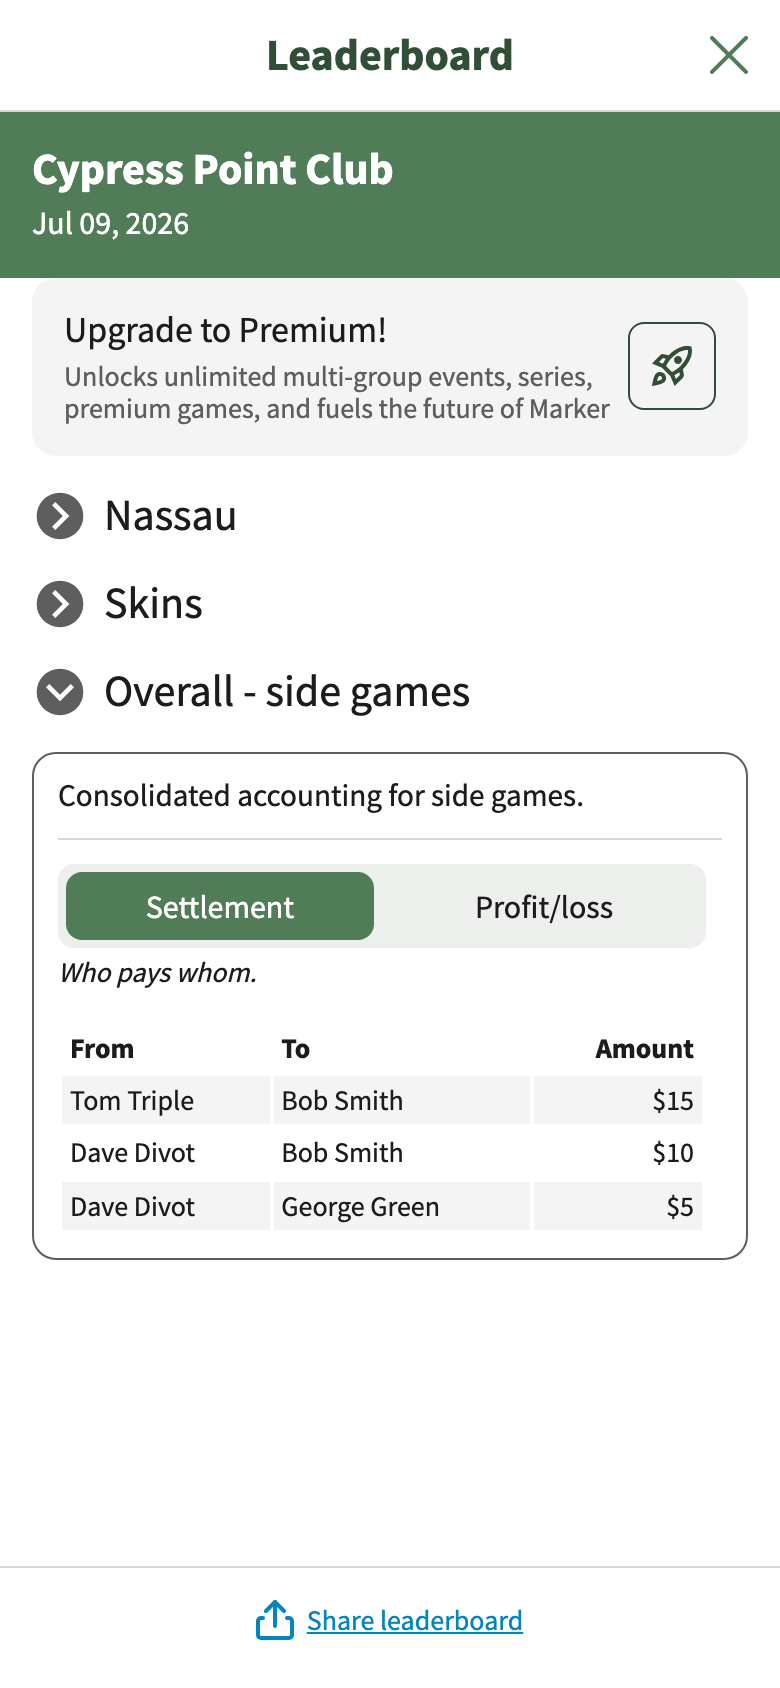
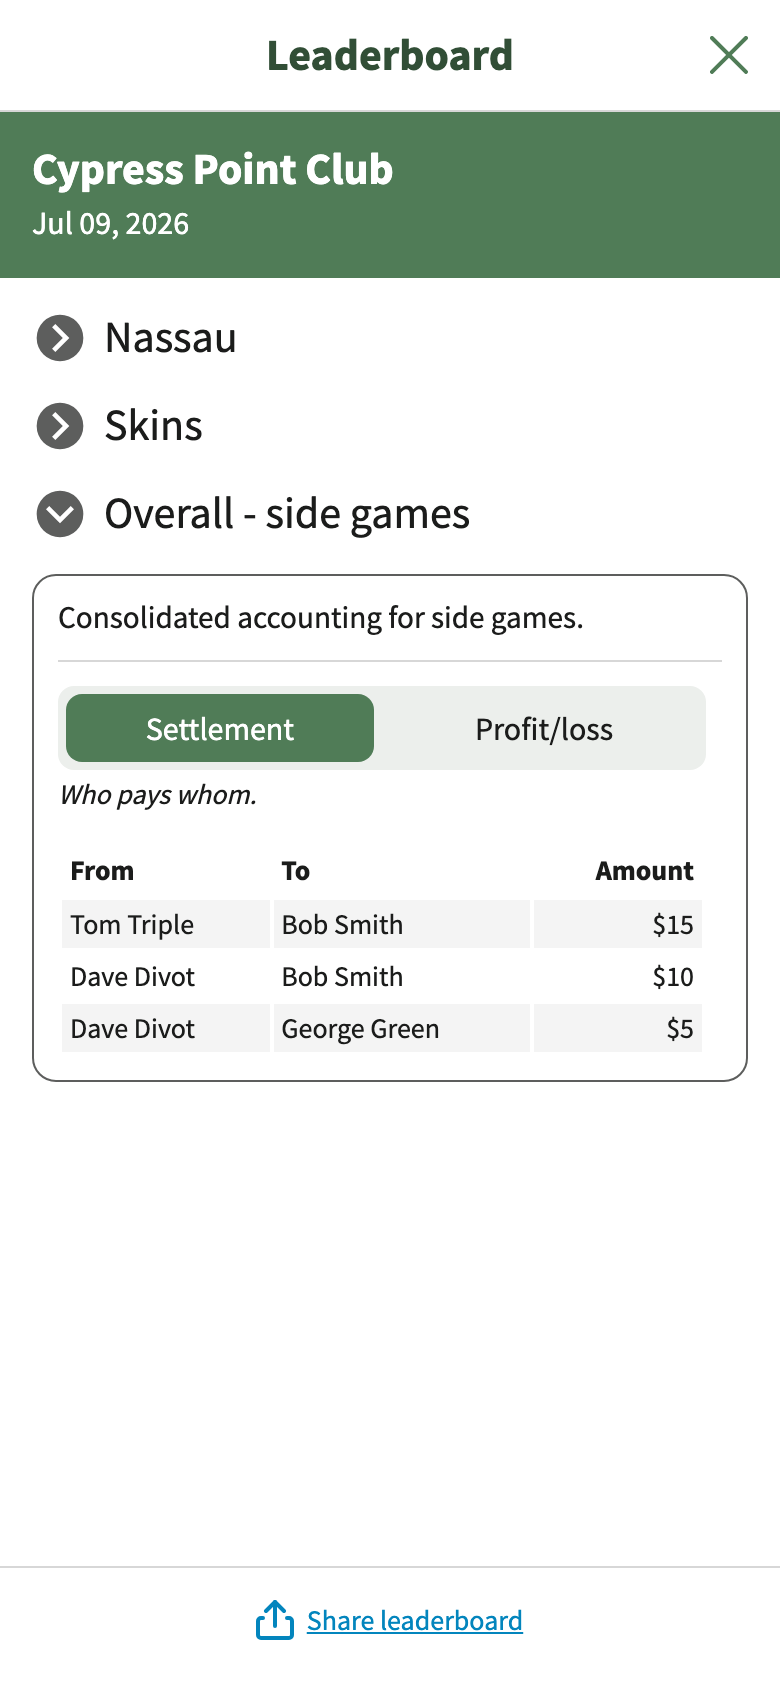
fix: refresh screenshots after removing game gating

diff --git a/scripts/screenshots/README.md b/scripts/screenshots/README.md
@@ -67,6 +67,43 @@ nothing is ever written to it.
 
 Pinned commits, ports, sandbox ports and time limits live in `lib/config.mjs`.
 
+## Pinned commits and capture provenance
+
+`APP_SHA` is a **temporary pre-release source pin**:
+`fea08fd28284e82ec44b749e6449ecb2efa0a9ef`, the local Vue commit "fix: remove
+per-game premium gating" on `feature/remove-premium-game-gating` (`d6225d5`
+plus that one change). It has not been pushed or merged and is not the
+released production app revision.
+
+| Approved captures | Vue commit |
+|---|---|
+| `game-picker`, `final-settlement-completed-round`, `overall-side-games-accounting` | `fea08fd28284e82ec44b749e6449ecb2efa0a9ef` |
+| every other approved screenshot, and the three demo videos | `d6225d56e9e86d621cb3b4cc3934d8862e15e7bc` |
+
+Each manifest entry's `notes` in `src/_data/screenshots.json` names its commit.
+`fea08fd` changes only the game-picker badges, the scorecard leaderboard's
+upgrade banner and upgrade copy, so the other captures are unaffected by it.
+
+### Release checklist: revisit the pin after the app PR merges
+
+Do this before deploying the website.
+
+1. **The commit lands unchanged** (fast-forward or merge commit): confirm it is
+   reachable from the released branch, e.g.
+   `git -C ../app fetch origin && git -C ../app merge-base --is-ancestor fea08fd28284e82ec44b749e6449ecb2efa0a9ef origin/master`.
+   Keep the pin, and replace "temporary pre-release" in the comment above
+   `APP_SHA` and in this section with the release it shipped in.
+2. **The PR is squash-merged or rebased** (new final SHA): compare trees,
+   `git -C ../app rev-parse fea08fd28284e82ec44b749e6449ecb2efa0a9ef^{tree} <released-sha>^{tree}`.
+   - Identical trees: update `APP_SHA` and the five `fea08fd` manifest notes
+     to the released SHA, record the tree-equivalence check, and run
+     `npm run screens:test` and `npm run screens:test:capture-failure`. No
+     recapture is needed.
+   - Different trees: update the pin, recapture the three screenshots above
+     (`node scripts/screenshots/capture.mjs --only=game-picker,overall-side-games-accounting,final-settlement-completed-round`
+     after a fresh `screens:db`/`screens:auth`/`screens:start`/`screens:fixtures`),
+     review them, and rerun the screenshot validation.
+
 ## Steps (`proof.mjs`)
 
 1. `prepare.mjs`: export the pinned commits (lockfile parity check), compile
